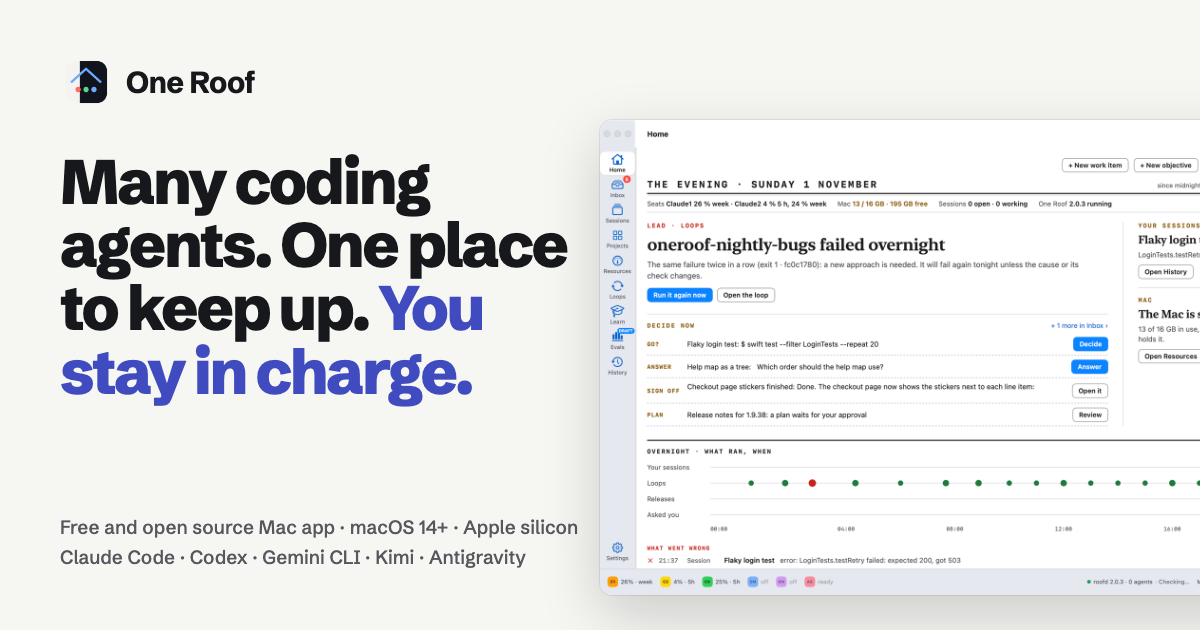
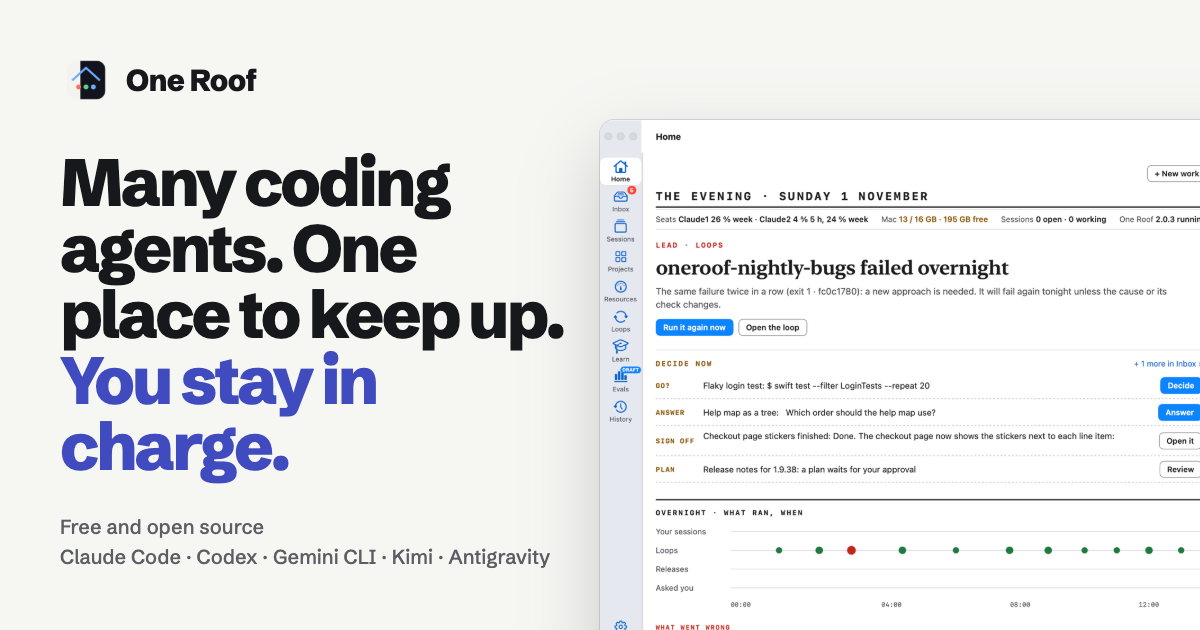
LAB-2212 · [lab-oneroof-v203] link card and site facts: no 'Mac app'
The link card and the site facts no longer call One Roof a Mac app.

Changed region(s): [[0.0308, 0.2111, 1.0, 1.0], [0.0617, 0.8143, 0.4933, 0.9048], [0.0617, 0.0905, 0.2158, 0.181]]

diff --git a/site/og-src/og.html b/site/og-src/og.html
@@ -1,0 +1,18 @@
+<!doctype html><html><head><meta charset="utf-8">
+<!-- Source of site/og.png (1200×630, the link card). Re-render: site/og-src/render.sh -->
+<link rel="stylesheet" href="https://fonts.googleapis.com/css2?family=Schibsted+Grotesk:wght@500;800&display=swap">
+<style>
+html,body{margin:0;width:1200px;height:630px;overflow:hidden;background:#f6f6f3;color:#17181b;font-family:"Schibsted Grotesk",-apple-system,sans-serif}
+.brand{position:absolute;left:62px;top:56px;display:flex;align-items:center;gap:16px;font-weight:800;font-size:30px;letter-spacing:-.02em}
+.brand img{width:48px;height:48px;border-radius:11px}
+h1{position:absolute;left:60px;top:150px;width:520px;margin:0;font-weight:800;font-size:66px;line-height:1.0;letter-spacing:-.045em}
+h1 span{color:#3f4bbf}
+.facts{position:absolute;left:60px;top:512px;width:520px;font-weight:500;font-size:20px;line-height:1.5;color:#5b5e65}
+.shot{position:absolute;left:600px;top:120px;width:900px;border-radius:14px;overflow:hidden;box-shadow:0 0 0 1px rgba(23,24,27,.14),0 30px 70px rgba(10,14,22,.18)}
+.shot img{display:block;width:100%}
+</style></head><body>
+<div class="brand"><img src="../assets/apple-touch-icon.png">One Roof</div>
+<h1>Many coding agents. One place to keep up. <span>You stay in charge.</span></h1>
+<div class="facts">Free and open source<br>Claude Code · Codex · Gemini CLI · Kimi · Antigravity</div>
+<div class="shot"><img src="../shots/home-daylight.png"></div>
+</body></html>

diff --git a/site/index.html b/site/index.html
@@ -64,7 +64,7 @@
         <a class="btn-lg btn-outline" href="https://github.com/gaurav8936/oneroof" data-launch-href="secondary" data-launch-text="secondaryCta">View on GitHub</a>
       </div>
       <div class="facts anim" style="--d:.34s">
-        <span>Free · open source · MIT</span><span>Native macOS app</span><span>Apple silicon · macOS 14 or later</span><span>Signed and notarized</span>
+        <span>Free · open source · MIT</span><span>Works with the agents you already use</span><span>Apple silicon · macOS 14 or later</span><span>Signed and notarized</span>
       </div>
     </section>
 
